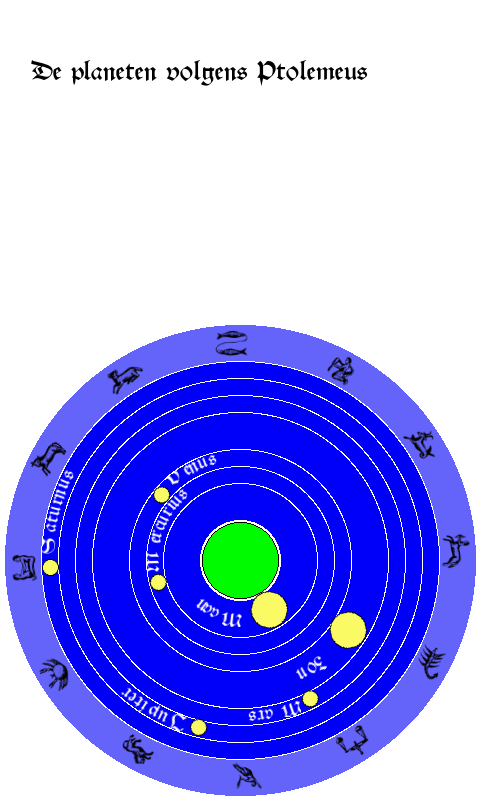
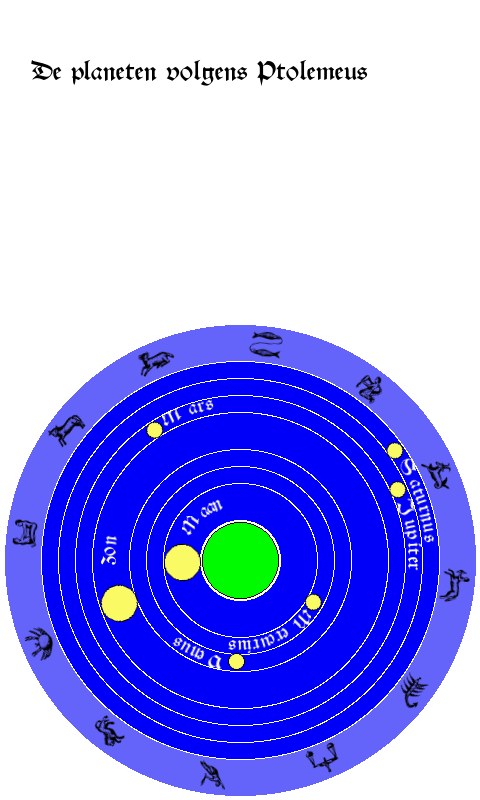
cirkelbanen aangepast

diff --git a/ptolemeus.py b/ptolemeus.py
@@ -50,7 +50,8 @@ def teken_aarde(straal):
    draw.ellipse([(sfeer_x-straal,sfeer_y-straal),
                  (sfeer_x+straal,sfeer_y+straal)],(0,250,0),(0,0,0),1)
 
-def teken_planeet(straal,phi,d,naam):
+def teken_planeet(straal,lengte,sidderisch,d,naam):
+   phi = lengte + sidderisch
    x = (straal-d/2)*math.sin(math.radians(phi))
    y = (straal-d/2)*math.cos(math.radians(phi))
    lcenter = 40 # grootte van ee plaatje voor een planeet
@@ -126,34 +127,30 @@ def epicykel(tijd,omlooptijd,straal,excentriciteit,lengteperiapsis,tijdperiapsis
     equans = 2 * deferent
     # Anomalie gezien van de equans is een lineaire functie van de tijd
     equansanomalie = (tijd-tijdperiapsis)/omlooptijd*tweepi
-    print ('   tijd', tijd)
-    print ('   tijd sinds periapsis',(tijd-tijdperiapsis))
-    print ('   anomalie van de equans',equansanomalie/tweepi*180.0)
+    # print ('   tijd', tijd)
+    # print ('   tijd sinds periapsis',(tijd-tijdperiapsis))
+    # print ('   anomalie van de equans',equansanomalie/tweepi*180.0)
     equansx = straal * math.cos(equansanomalie) - deferent
     equansy = straal * math.sin(equansanomalie)
     # De epicykel, de cirkel op de cirkel
     epianomalie = (tijd)/siderischjaar*tweepi % tweepi
-    print ('   anomalie van de epicykel',epianomalie/tweepi*180.0)
+    # print ('   anomalie van de epicykel',epianomalie/tweepi*180.0)
     straalaarde = (149476014.0805783 + 149454602.05227306) / 2.0
     equansx = equansx - straalaarde * math.cos(epianomalie)
     equansy = equansy - straalaarde * math.sin(epianomalie)
     # Hoek vanuit de Aarde
     wareanomalie = math.atan2(equansy, equansx) / tweepi * 180.0
-    print ('   ware anomalie',wareanomalie)
-    schijnbareanomalie = wareanomalie + lengteperiapsis
-    print ('   schijnbare anomalie',schijnbareanomalie)
-    return schijnbareanomalie
+    print ('   ware anomalie',wareanomalie%360.0)
+    ecliptischelengte = wareanomalie + lengteperiapsis
+    print ('   ecliptische lengte',ecliptischelengte%360.0)
+    return ecliptischelengte
 
 # De Zon en de Maan beschijven een cirkelbaan om de Aarde
-def cirkelbaan(tijd,omlooptijd):
-   schijnbareanomalie = ( tijd / omlooptijd ) % 360.0
-   print('Schijnbare anomalie',schijnbareanomalie)
-   return schijnbareanomalie
-
-# Keplerbaan geeft de ware anomalie, de hoek van een planeet ten opzichte van het
-# lentepunt gezien vanuit de Zon.
-def keplerbaan(tijd):
-   return wareanomalie
+def cirkelbaan(tijd,omlooptijd,tperi,lengteperi):
+   print (tijd,tperi,omlooptijd,lengteperi)
+   ecliptischelengte = (((tijd - tperi ) / omlooptijd) * 360.0 + lengteperi ) % 360
+   print('   ecliptische lengte',ecliptischelengte)
+   return ecliptischelengte
 
 # Metonische cyclus, 19 jaar komt overeen met 235 maanden
 # Geeft het gouden getal 
@@ -203,26 +200,25 @@ for ip in planeet:
    # lengte = epicykel() + hoeklentepunt;
    # Teken de cirkel met planeet
    naam = planeet[ip]['naam']
+   print (naam)
          
    if (naam == 'Zon'):
-       # lengte = cirkelbaan(nu,siderischjaar) + LMST*360.0
-       lengte = lokaletijd*360.0-180.0
+       lengte = cirkelbaan(juliaansedag,planeet[ip]['T'],
+                           planeet[ip]['epochperi'],planeet[ip]['lengteperi'])
+       # lengte = lokaletijd*360.0-180.0
        w = 36
-       print('Zon ecliptische lengte',lengte)
    elif (naam == 'Maan'):
-       lengte = cirkelbaan(nu,synodischemaand) + LMST*360.0 - 180.0
+       lengte = cirkelbaan(juliaansedag,planeet[ip]['T'],
+                           planeet[ip]['epochperi'],planeet[ip]['lengteperi'])
        w = 36
-       print('Maan ecliptisce lengte',lengte)
    else:
-       print(naam)
        lengte = epicykel(juliaansedag,
                          planeet[ip]['T'],planeet[ip]['a'],
                          planeet[ip]['e'],planeet[ip]['lengteperi'],
-                         planeet[ip]['epochperi']) + LMST*360.0
+                         planeet[ip]['epochperi'])
        w = 16
-       print(naam,'ecliptische lengte', lengte)
    r += w+1;
-   teken_planeet(r,lengte,w,naam)
+   teken_planeet(r,lengte,LMST*360,w,naam)
 
 # Teken de dierenriem
 w = 36

diff --git a/cirkels.py b/cirkels.py
@@ -49,8 +49,8 @@ def epicykel(tijd,omlooptijd,straal,excentriciteit,lengteperiapsis,tijdperiapsis
                   (middenx+straal*schaal,middeny+straal*schaal)],outline=(0,0,0),fill=(250,200,200),width=1)
     draw.point([(middenx,middeny),(middenx,middeny-deferent*schaal)], fill=(0,0,0))
     draw.point([(middenx,middeny),(middenx,middeny-deferent*schaal)], fill=(0,0,0))
-    draw.text((middenx,middeny-deferent*schaal), 'Equans',anchor='ml',fill=(0,0,0))
-    draw.text((middenx,middeny+deferent*schaal), 'Aarde',anchor='ml',fill=(0,0,0))
+    draw.text((middenx,middeny-deferent*schaal), 'Equans',anchor='lm',fill=(0,0,0))
+    draw.text((middenx,middeny+deferent*schaal), 'Aarde',anchor='lm',fill=(0,0,0))
     # Anomalie gezien van de equans is een lineaire functie van de tijd
     equansanomalie = (tijd-tijdperiapsis)/omlooptijd*tweepi
     print ('   tijd', tijd)
@@ -64,13 +64,13 @@ def epicykel(tijd,omlooptijd,straal,excentriciteit,lengteperiapsis,tijdperiapsis
     epianomalie = (tijd)/siderischjaar*tweepi % tweepi
     print ('   anomalie van de epicykel',epianomalie/tweepi*180.0)
     straalaarde = (149476014.0805783 + 149454602.05227306) / 2.0
-    planeetx = defx - straalaarde * math.cos(epianomalie)
-    planeety = defy - straalaarde * math.sin(epianomalie)
+    planeetx = defx + straalaarde * math.cos(epianomalie)
+    planeety = defy + straalaarde * math.sin(epianomalie)
     # Hoek vanuit de Aarde
     wareanomalie = math.atan2(defy, defx) / tweepi * 180.0
     print ('   ware anomalie',wareanomalie)
-    schijnbareanomalie = wareanomalie + lengteperiapsis
-    print ('   schijnbare anomalie',schijnbareanomalie)
+    ecliptischelengte = wareanomalie + lengteperiapsis
+    print ('   ecliptische lengte',ecliptischelengte)
     draw.ellipse([(middenx+(defx-straalaarde)*schaal,middeny+(defy-straalaarde)*schaal),
                   (middenx+(defx+straalaarde)*schaal,middeny+(defy+straalaarde)*schaal)],
                    outline=(0,0,0),fill=(200,200,250),width=1)
@@ -79,8 +79,8 @@ def epicykel(tijd,omlooptijd,straal,excentriciteit,lengteperiapsis,tijdperiapsis
     draw.line([(middenx+defx*schaal,middeny+defy*schaal),
                (middenx+planeetx*schaal,middeny+planeety*schaal)],
                 fill=(0,0,0),width=1)
-    draw.text((middenx+planeetx*schaal,middeny+planeety*schaal),naam,anchor='ml',fill=(0,0,0))
-    return schijnbareanomalie
+    draw.text((middenx+planeetx*schaal,middeny+planeety*schaal),naam,anchor='lm',fill=(0,0,0))
+    return ecliptischelengte
 
 # Bepaal lokale tijd en lokale sterrentijd, om zomertijd ellende te voorkomen alles vanaf gm
 nu = time.time() / 86400  # nu, in dagen
@@ -128,7 +128,6 @@ for ip in planeet:
                          planeet[ip]['T'],planeet[ip]['a'],
                          planeet[ip]['e'],planeet[ip]['lengteperi'],
                          planeet[ip]['epochperi']) + LMST*360.0
-       print(naam,'ecliptische lengte', lengte)
        filenaam = naam+'.png'
        diagram.save(filenaam)
        # diagram.show()

diff --git a/ephemeris.py b/ephemeris.py
@@ -1,0 +1,39 @@
+import sys
+import math
+from datetime import datetime, timezone
+from skyfield import almanac
+from skyfield.api import load, wgs84, N, E, W, S
+from skyfield.api import position_of_radec, load_constellation_map
+from skyfield.framelib import ecliptic_frame
+
+# Lijstje planeten, Uranus en Neptunus bestaan nog niet
+planets = {'Maan': 'Moon', 'Mercurius': 'Mercury', 'Venus': 'Venus',
+           'Zon': 'Sun', 'Mars': 'Mars',
+           'Jupiter': 'Jupiter barycenter', 'Saturnus': 'Saturn barycenter'}
+
+# Bepaal positie van de waarnemer
+ams = wgs84.latlon(52.375 * N, 4.900 * E)
+print (ams.latitude, ams.longitude)
+
+# Bepaal lokale tijd en bereken de sterrentijd (sideral time)
+ts = load.timescale()
+t = ts.now()
+st = t.gast+ams.longitude.degrees/360*24
+hoek_lentepunt = st/24*360
+# print ('tijd', t, hoek_lentepunt)
+# Check, waar staat het lentepunt?
+lentepunt = position_of_radec(0,0)
+constellation_at = load_constellation_map()
+print ('lentepunt staat in', constellation_at(lentepunt))
+
+# Laad de baangegevens van de planeten, JPL ephemeris DE421
+eph = load('de421.bsp')
+aarde = eph['earth']
+
+# Bereken posities van de planeten in het ecliptisch assenstelsel
+for p in planets:
+   planeetpositie = aarde.at(t).observe(eph[planets[p]])
+   lat, lon, d = planeetpositie.frame_latlon(ecliptic_frame)
+   print (p,constellation_at(planeetpositie),'lengte',lon.degrees)
+   # azimut_equatoriaal = (hoek_lentepunt-lon.degrees)%360
+   # print (p, constellation_at(planeetpositie), lon.degrees, azimut_equatoriaal)
